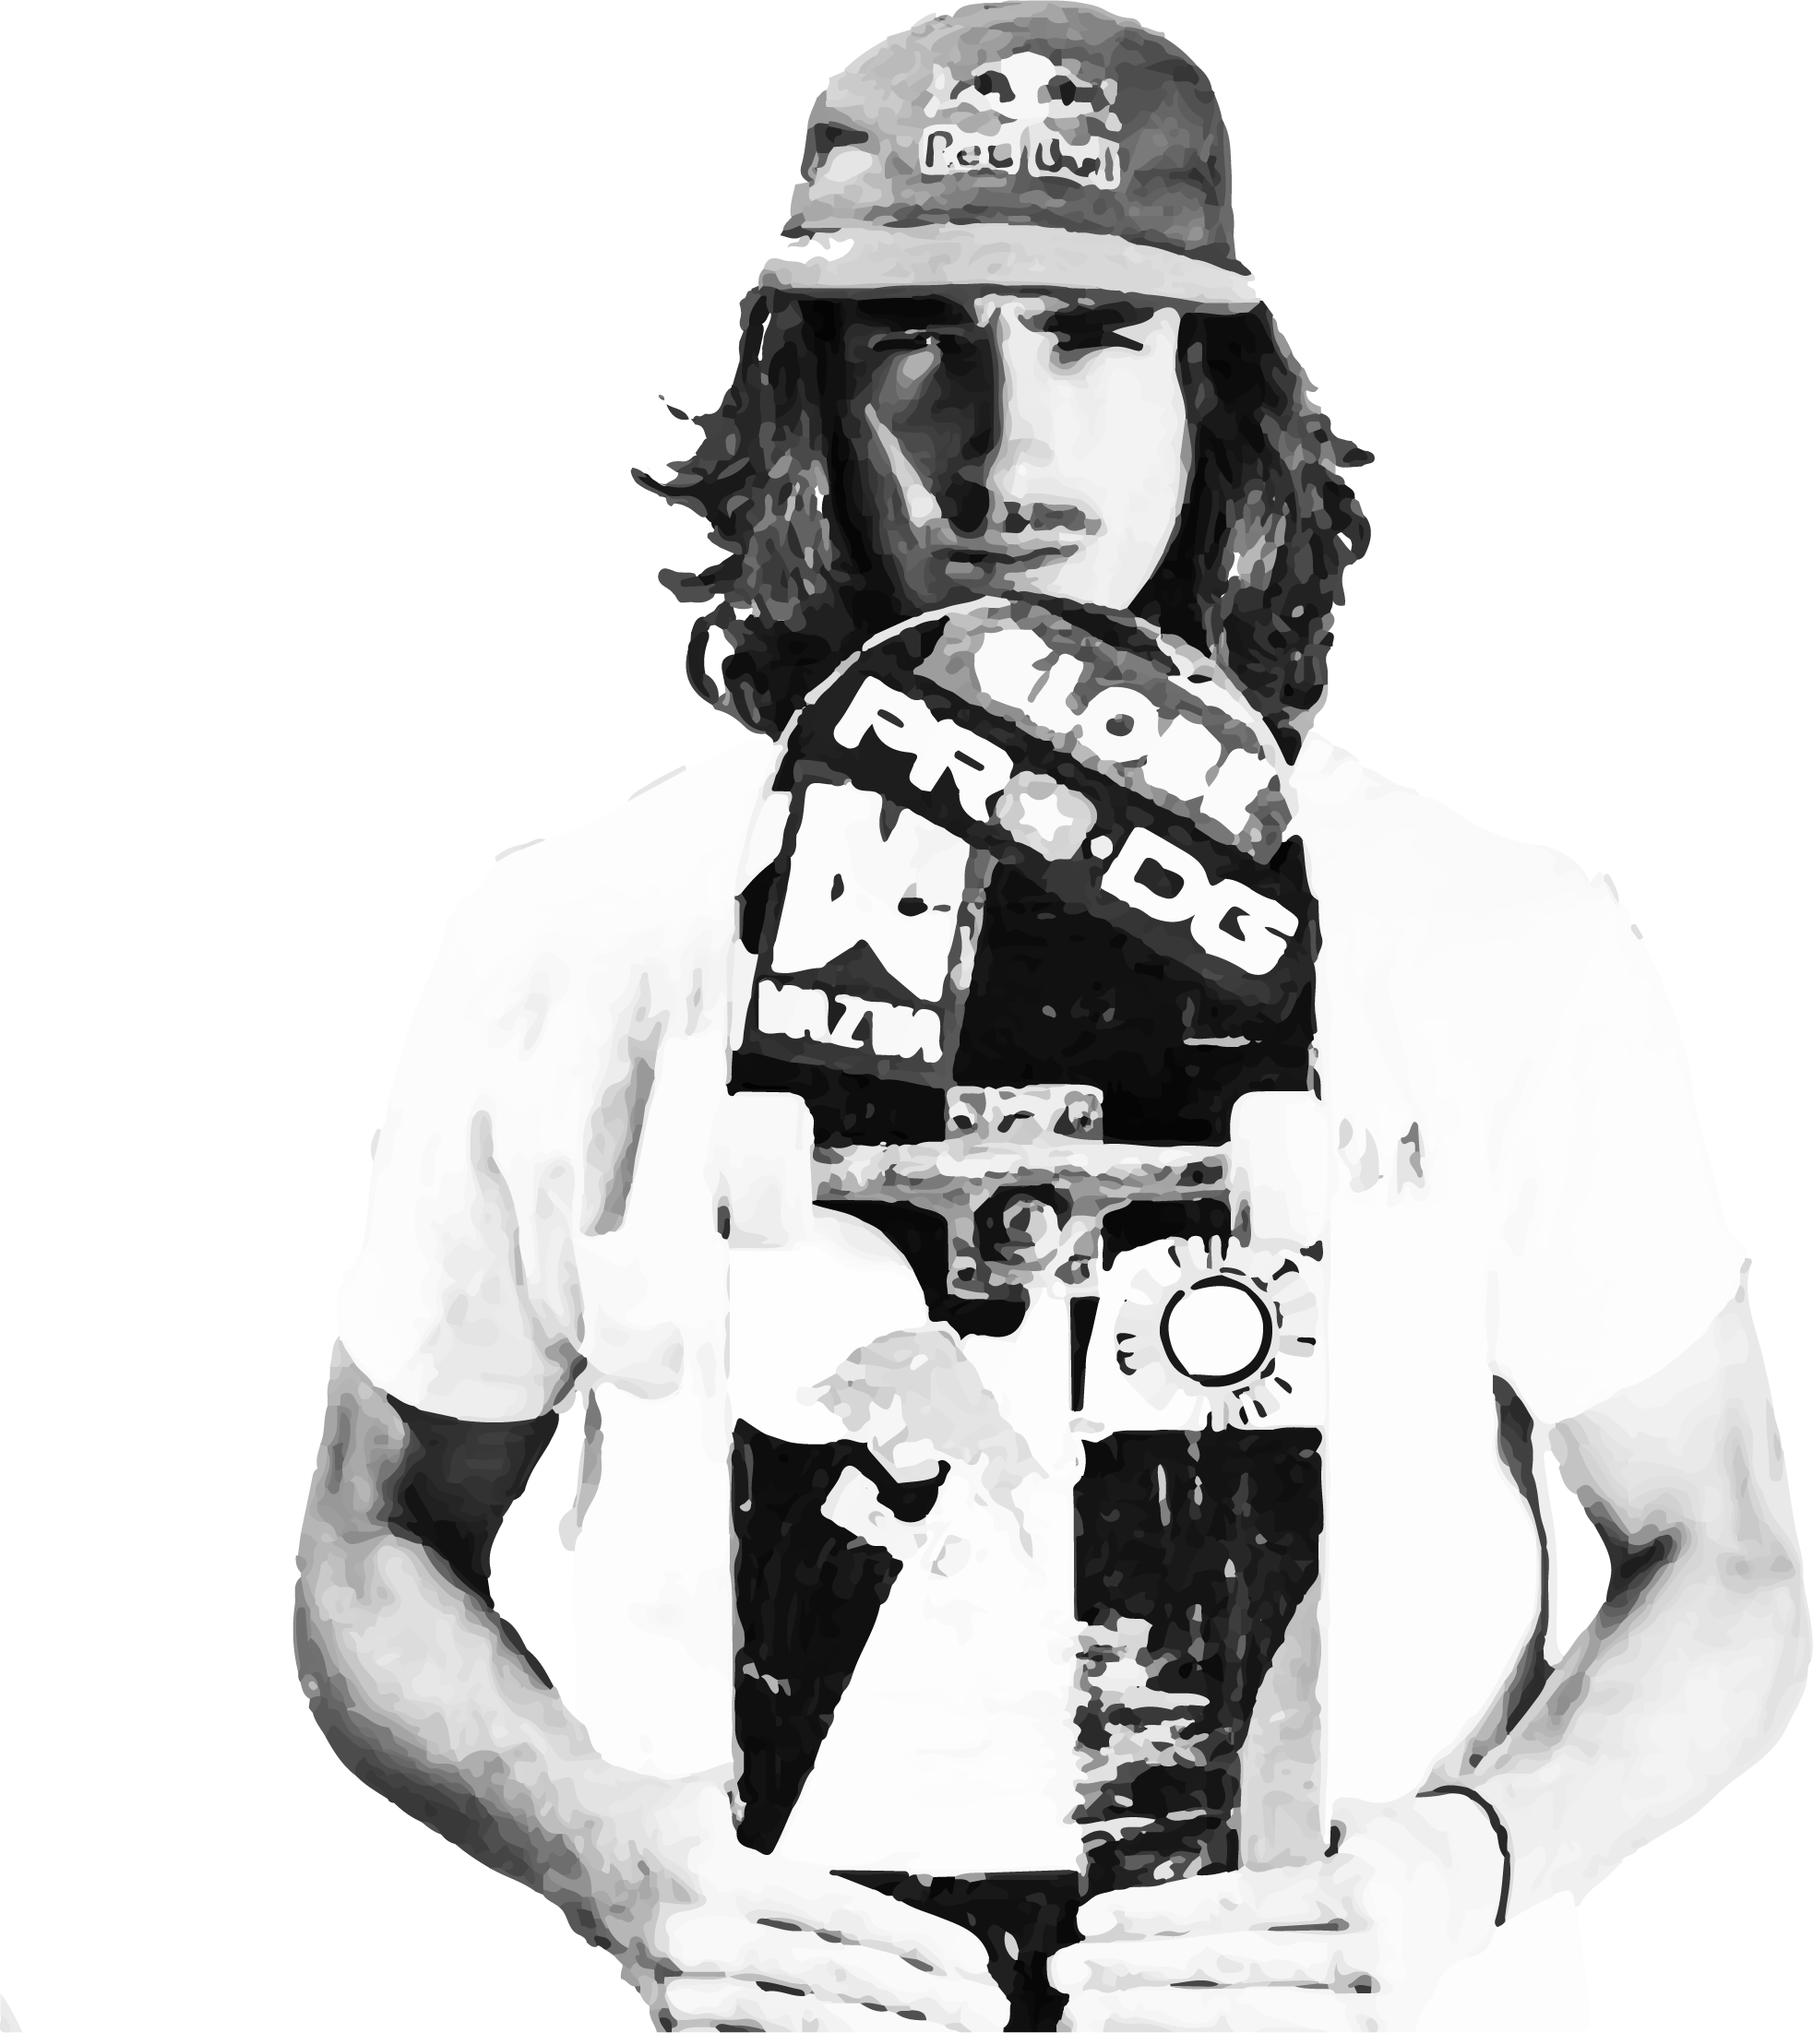
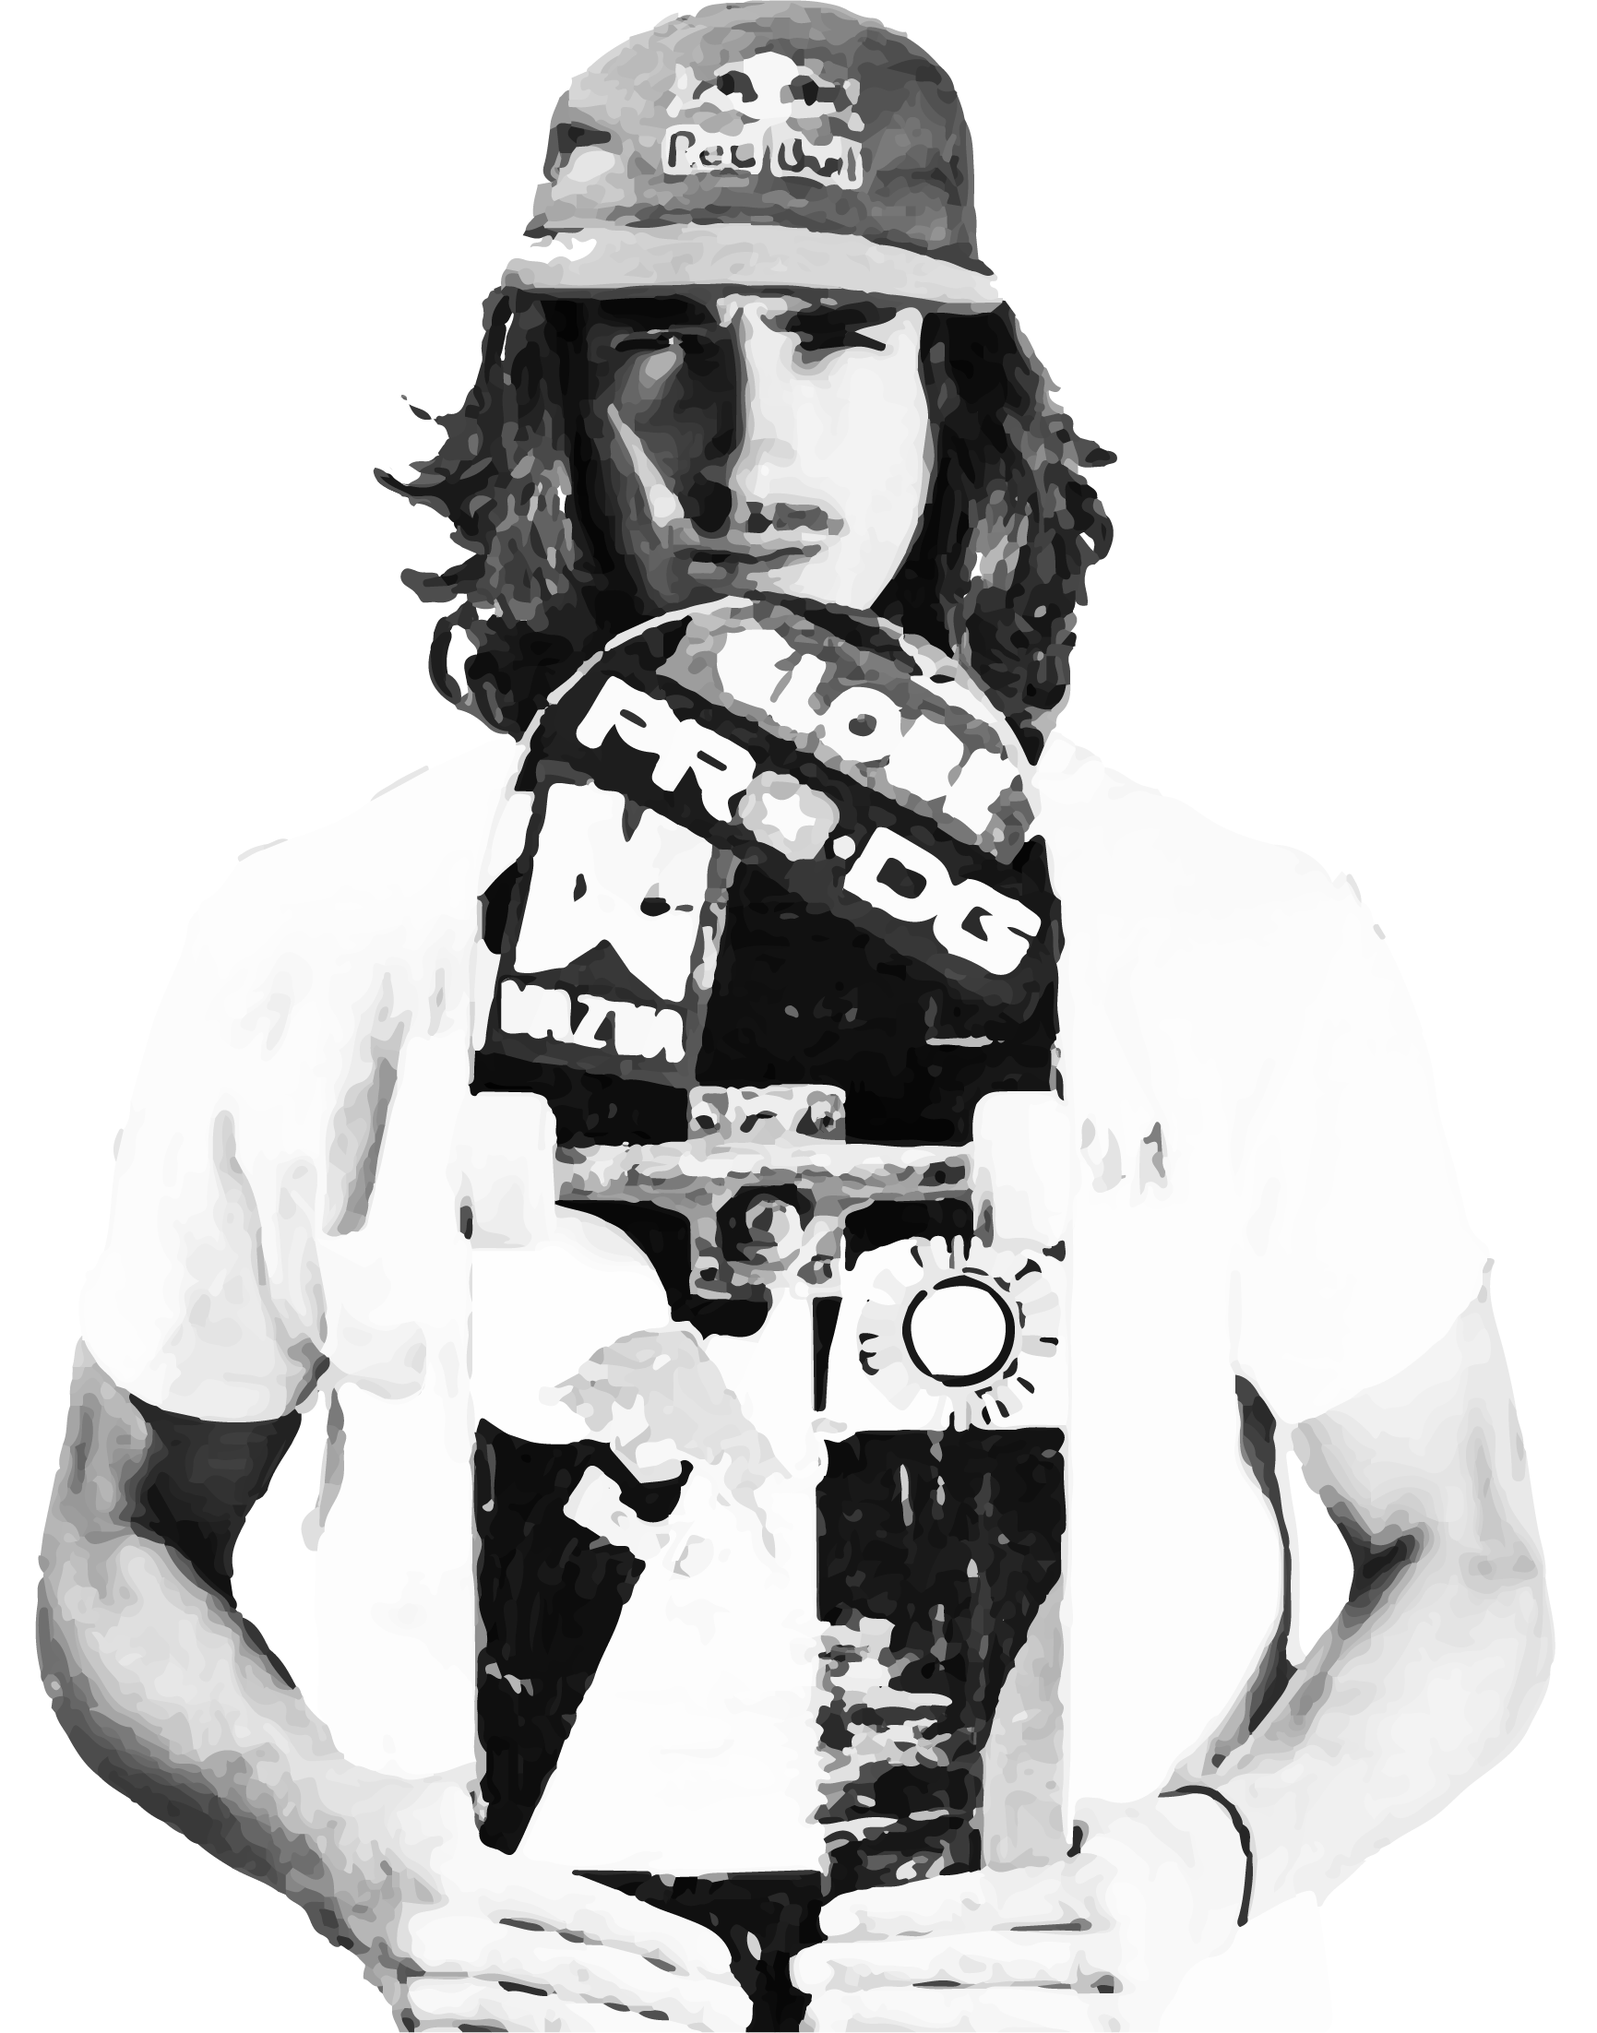
fotos actualizadas

diff --git a/ecom/src/components/Header/Header.scss b/ecom/src/components/Header/Header.scss
@@ -5,7 +5,6 @@
     justify-content: space-between;
     width: 100%;
     height: 10%;
-    border: 1px solid blue;
     margin: 0px;
     padding: 0px;
     box-sizing: border-box;
@@ -20,16 +19,18 @@
 
 .NavButtons {
     display: flex;
-    justify-content: space-around;
+    justify-content: flex-end;
     align-items: center;
     width: 30%;
     height: 100%;
+
     
     a {
         all: unset;
         font-size: 0.8em;
         color: $champagne;
         font-family: 'Arvo', serif;
+        padding-left: 1em;
         letter-spacing: 2px;
         font-weight: 700;
         cursor: pointer;
@@ -38,8 +39,22 @@
 
 .Login {
     display: flex;
-    width: 30%;
+    justify-content: flex-end;
+    align-items: center;
+    width: 40%;
     height: 100%;
+    border-left: 4px solid $interorange;
+
+    a {
+        all: unset;
+        font-size: 0.8em;
+        color: $champagne;
+        font-family: 'Arvo', serif;
+        letter-spacing: 2px;
+        font-weight: 700;
+        padding-right: 20px;
+        cursor: pointer;
+    } 
     
 }
 

diff --git a/ecom/src/Containers/Home/Home.scss b/ecom/src/Containers/Home/Home.scss
@@ -1,30 +1,52 @@
+@import '../../Colors.scss';
+
 .Home {
     display: flex;
     width: 100%;
     height: 100%;
-    border: 1px solid black;
+    overflow: visible;
 
 }
 
 .PhotoHome {
-    
-    width: 90%;
-    height: auto;
+    position: relative;
+    left: 150px;
+    top: -40px;
+    width: auto;
+    height: 120%;
     z-index: -1;
     object-fit: contain;
-    
 }
+
+.PhotoHome2 {
+    position: relative;
+    left: -255px;
+    top: -40px;
+    width: auto;
+    height: 120%;
+    object-fit: contain;
+    z-index: -2;
+    mix-blend-mode: multiply;
+}
+
 
 .MainLeft {
     display: flex;
     width: 50%;
     height: 100%;
-    border: 2px solid white;
 }
 
 .MainRight {
     display: flex;
     width: 50%;
     height: 100%;
-    border: 1px solid white;
+}
+
+.RedCaption {
+    position: absolute;
+    top: 50%;
+    width: 40%;
+    height: 20%;
+    background-color: $interorange;
+    z-index: -2;
 }

diff --git a/ecom/src/components/Header/Header.jsx b/ecom/src/components/Header/Header.jsx
@@ -13,12 +13,15 @@ const Header = () => {
             </div>
             <div className="NavButtons">
 
-            <NavLink to='/' exact>Home</NavLink>
-            <NavLink to='/product' exact>Products</NavLink>
-            <NavLink to='/' exact>About this</NavLink>
+                <NavLink to='/' exact>Home</NavLink>
+                <NavLink to='/product' exact>Products</NavLink>
+                <NavLink to='/' exact>About this</NavLink>
 
             </div>
             <div className="Login">
+                <NavLink to='/login' exact>Login</NavLink>
+                <NavLink to='/Register' exact>Register</NavLink>
+
 
 
             </div>

diff --git a/ecom/src/Containers/Home/Home.jsx b/ecom/src/Containers/Home/Home.jsx
@@ -8,12 +8,17 @@ const Home = () => {
 
             <div className="MainLeft">
 
-                <img className="PhotoHome" src='images/danny-leon-04.png'  alt="danny-leon"/>
+                <img className="PhotoHome" src='images/danny-leon-03.png'  alt="danny-leon"/>
+
+                {/* <img className="PhotoHome2" src='images/danny-leon-04.png'  alt="danny-leon"/> */}
+
+
+                <div className="RedCaption" />
 
             </div>
 
             <div className="MainRight">
-
+                
 
             </div>
             

diff --git a/ecom/src/components/Filters/Filter.scss b/ecom/src/components/Filters/Filter.scss
@@ -7,6 +7,7 @@
     background-color: $skobeloff;
     background-size: cover;
     z-index: -2;
+    mix-blend-mode: multiply;
    
 }
 
@@ -15,9 +16,14 @@
     width: 100%;
     height: 100%;
     z-index: -1;
-    // background-image: url('../../assets/images/skateboarding-boy-01.jpg');
+    // background-image: url();
     background-size: cover;
     filter: grayscale(100%);
     mix-blend-mode: darken;
   
+}
+
+.Pattern {
+    // background-image: url('images/skate-pattern-01.jpg');
+    background-size: cover;
 }

diff --git a/ecom/src/components/Filters/Filter.jsx b/ecom/src/components/Filters/Filter.jsx
@@ -1,10 +1,22 @@
 import React from 'react'
 import './Filter.scss'
 
+
+const pattern = {
+    // backgroundImage: 'url(images/skate-pattern-02.jpg)',
+    backgroundSize: '400px',
+    mixBlendMode: 'multiply',
+    opacity: .4,
+    zIndex: -2,
+
+}
+
 const Filter = () => {
     return (
         <div className="Filter">
-            <div className="Background">
+            <div className="Background" style={pattern}>
+
+                <div className="Pattern" />
                 
             </div>
             
